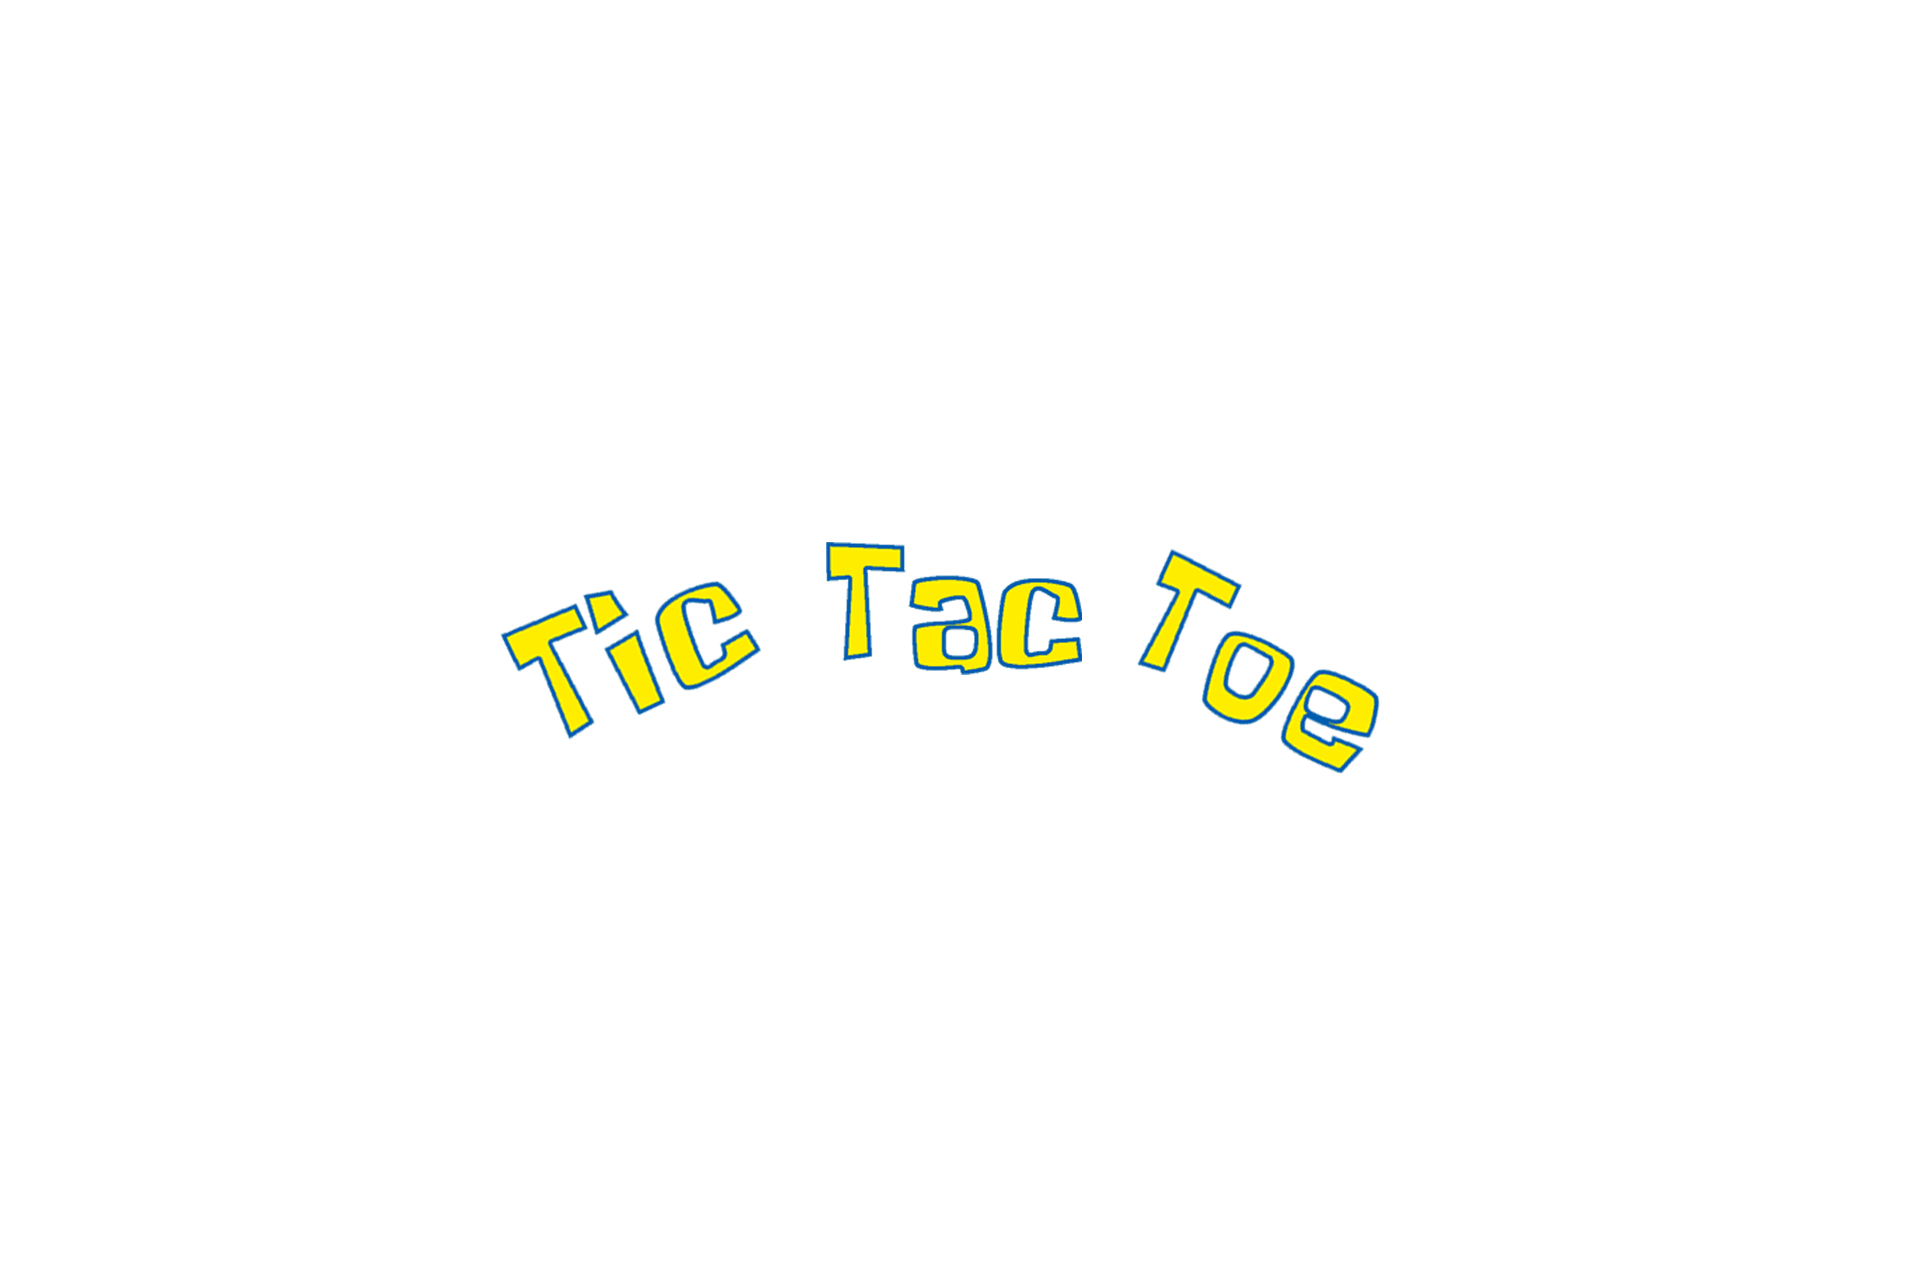
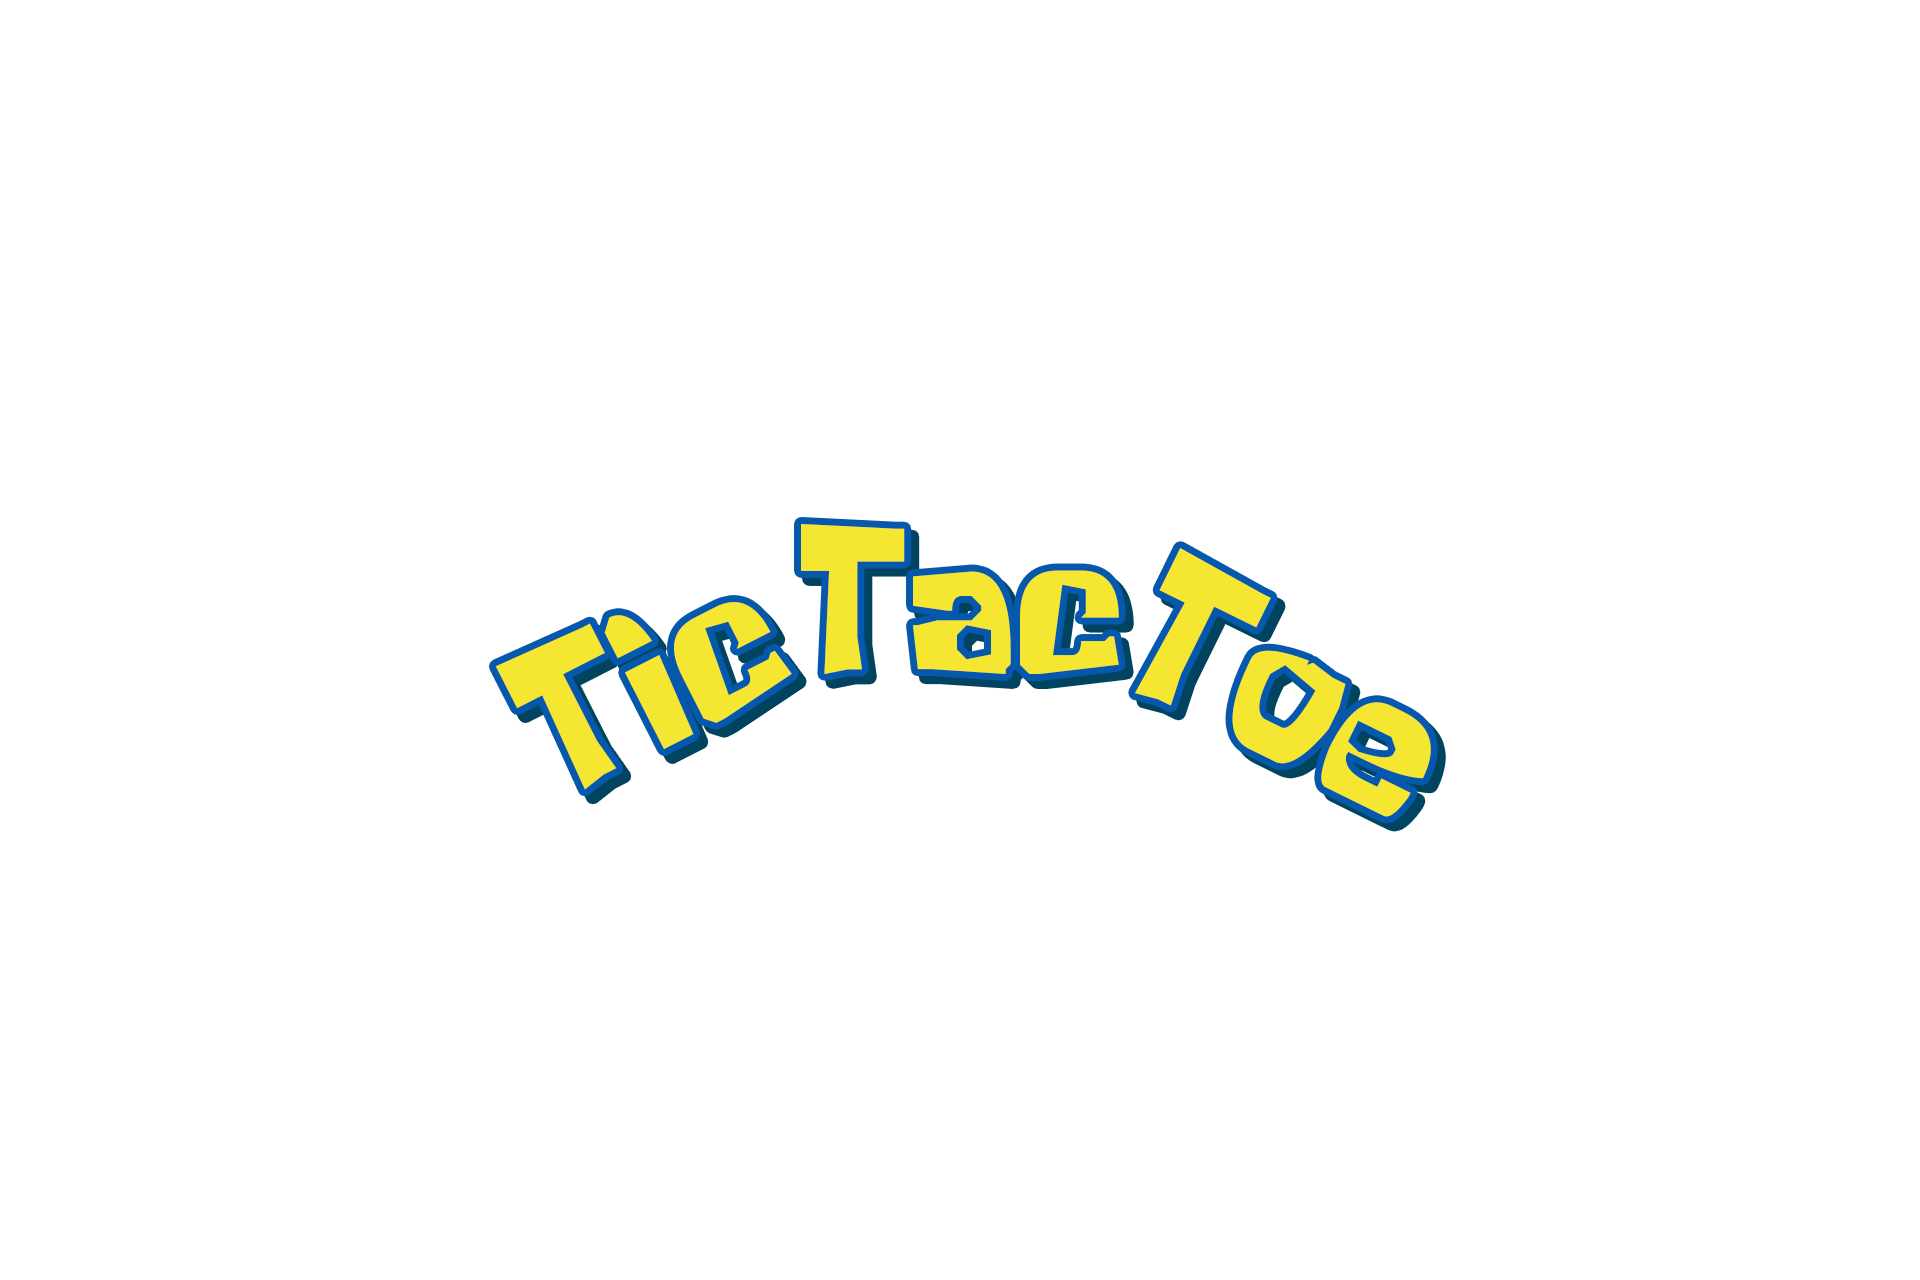
polished main page and menu

Changed region(s): [[0.25, 0.4062, 0.75, 0.6562]]

diff --git a/src/components/main-menu/Menu.js b/src/components/main-menu/Menu.js
@@ -1,5 +1,4 @@
 import { Lightning } from '@lightningjs/sdk';
-import { FONT_COLOR, FONT_FAMILY } from '../../constants/style';
 import MenuItem from '../main-menu/MenuItem';
 
 export default class Menu extends Lightning.Component {
@@ -9,8 +8,14 @@ export default class Menu extends Lightning.Component {
         x: 40
       },
       FocusIndicator: {
-        y: 5,
-        text: { text: '>', fontFace: FONT_FAMILY, textColor: FONT_COLOR }
+        Logo: {
+          src: 'images/sb-pineapple.png',
+          mount: 0.5,
+          x: 0,
+          y: 15,
+          w: 50,
+          h: 75
+        }
       }
     };
   }

diff --git a/src/views/Main.js b/src/views/Main.js
@@ -20,16 +20,16 @@ export default class Main extends Lightning.Component {
         type: Menu,
         items: [
           { label: '', action: 'start' },
-          { label: 'HERE', action: 'https://gamex.np.gpe.xfinity.com/#play' },
+          { label: '', action: 'https://gamex.np.gpe.xfinity.com/#play' },
           { label: '', action: 'exit' }
         ],
         Logo: {
           src: 'images/sb-menu.png',
           mount: 0.5,
-          x: 240,
-          y: 120,
-          w: 350,
-          h: 225
+          x: 290,
+          y: 115,
+          w: 600,
+          h: 275
         }
       }
     };
